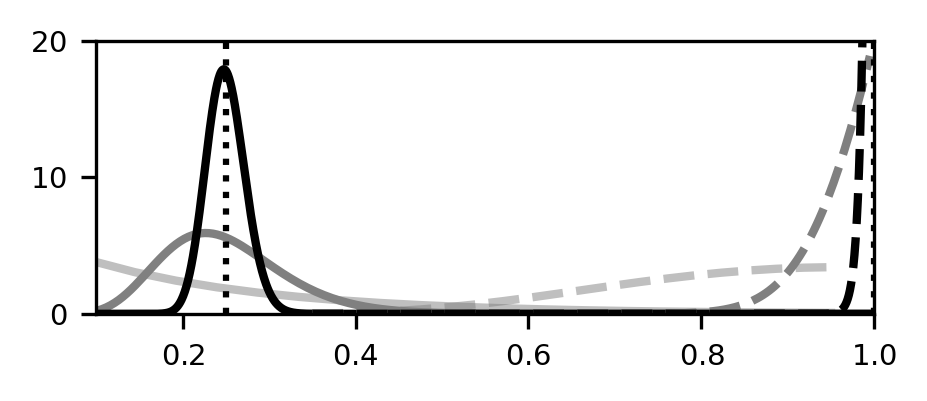
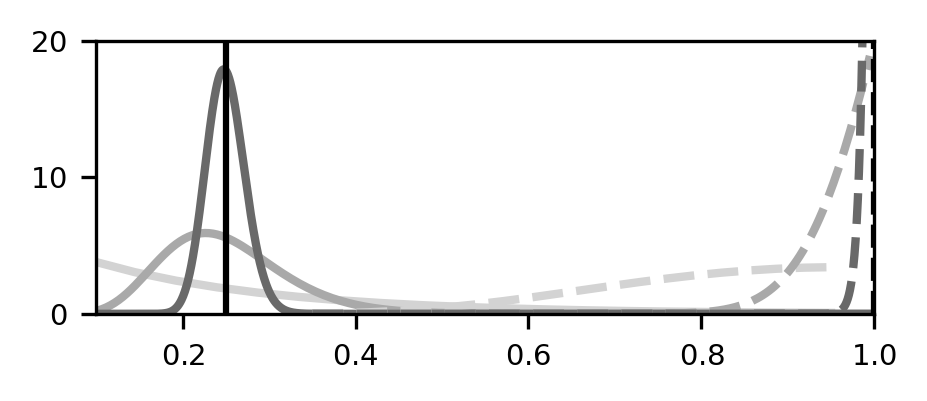
made fig2b better

diff --git a/Simulations/Fig2_CompleteDistComparisons_VaryN/Plotting.py b/Simulations/Fig2_CompleteDistComparisons_VaryN/Plotting.py
@@ -165,14 +165,12 @@ for i in Params:
     """
 
     if N < 200:
-        color = 'grey'
+        color = 'lightgrey'
         alpha=0.5
     elif N == 200:
-        color = 'grey'
-        alpha = 1
+        color = 'darkgrey'
     elif N == 2000:
-        color = 'black'
-        alpha = 1
+        color = 'dimgrey'
 
     #plt.plot(np.linspace(0,1,N),hist/sum(hist)*N,color=i[3],linewidth=3,linestyle='dotted')
 
@@ -188,12 +186,12 @@ for i in Params:
         linestyle = 'solid'
     else:
         linestyle='dashed'
-    plt.plot(n+z,Ana,color=color,linewidth=2,alpha=alpha,linestyle=linestyle)
+    plt.plot(n+z,Ana,color=color,linewidth=2,linestyle=linestyle)
 
 
 
-plt.plot([0.25,0.25],[0,20],linestyle='dotted',color='k')
-plt.plot([1,1],[0,20],linestyle='dotted',color='k')
+plt.plot([0.25,0.25],[0,20],linestyle='solid',color='k')
+plt.plot([1,1],[0,20],linestyle='dashed',color='k')
 
 
 
